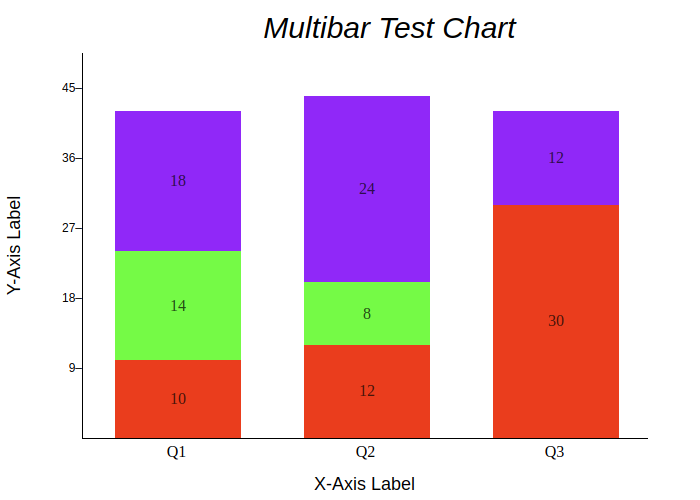
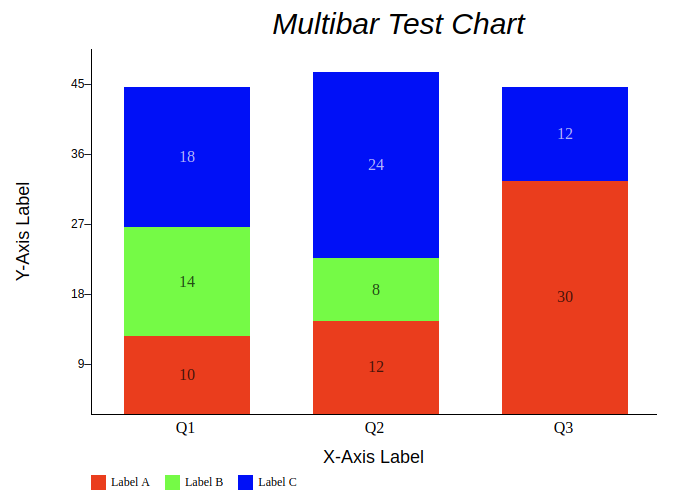
Tweak multibar key and updated screenshot

diff --git a/barz.js b/barz.js
@@ -314,6 +314,8 @@ function renderBarz(data, options, elem) {
     $(chartId + " .barz-bottombar").append($("<div>", {class: "barz-left-corner-pad"}));
     $(chartId + " .barz-bottombar").append($("<div>", {class: "barz-multi-labels"}));
 
+    // Creates a small color box and places a label to the right of it.
+
     if (options["a-label"] !== "") {
       $(chartId + " .barz-multi-labels").append($("<div>", {class: "a-color-box"}));
       $(chartId + " .a-color-box").css({
@@ -326,8 +328,7 @@ function renderBarz(data, options, elem) {
       $(chartId + " .a-multi-label").css({
         "font-size": "12px",
         "margin-top": "auto",
-        "margin-left": "10px",
-        "margin-right": "10px"
+        "padding": "0px 15px 0px 5px"
       });
       $(chartId + " .a-multi-label").text(options["a-label"]);
     }
@@ -344,8 +345,7 @@ function renderBarz(data, options, elem) {
       $(chartId + " .b-multi-label").css({
         "font-size": "12px",
         "margin-top": "auto",
-        "margin-left": "10px",
-        "margin-right": "10px"
+        "padding": "0px 15px 0px 5px"
       });
       $(chartId + " .b-multi-label").text(options["b-label"]);
     }
@@ -362,8 +362,7 @@ function renderBarz(data, options, elem) {
       $(chartId + " .c-multi-label").css({
         "font-size": "12px",
         "margin-top": "auto",
-        "margin-left": "10px",
-        "margin-right": "10px"
+        "padding": "0px 15px 0px 5px"
       });
       $(chartId + " .c-multi-label").text(options["c-label"]);
     }
@@ -514,7 +513,7 @@ function colorPicker (bgColor) {
   var hue = 0;
   if(maxColor != minColor){
 
-      //Calculate saturation.
+      // Calculate saturation.
 
       if(lumin < 0.5){
           saturation = (maxColor - minColor) / (maxColor + minColor);
@@ -522,7 +521,7 @@ function colorPicker (bgColor) {
           saturation = (maxColor - minColor) / (2.0 - maxColor - minColor);
       }
 
-      //Calculate hue.
+      // Calculate hue.
 
       if (r1 == maxColor) {
           hue = (g1 - b1) / (maxColor - minColor);
@@ -539,6 +538,9 @@ function colorPicker (bgColor) {
   if (hue < 0){
     hue += 360;
   }
+
+  // If the color is bright, it makes the label dark. If it's dark, it makes
+  // the label bright.
 
   if (lumin < 50.0 || ( hue > 225 && hue < 270 )) {
     lumin = 85.00;
